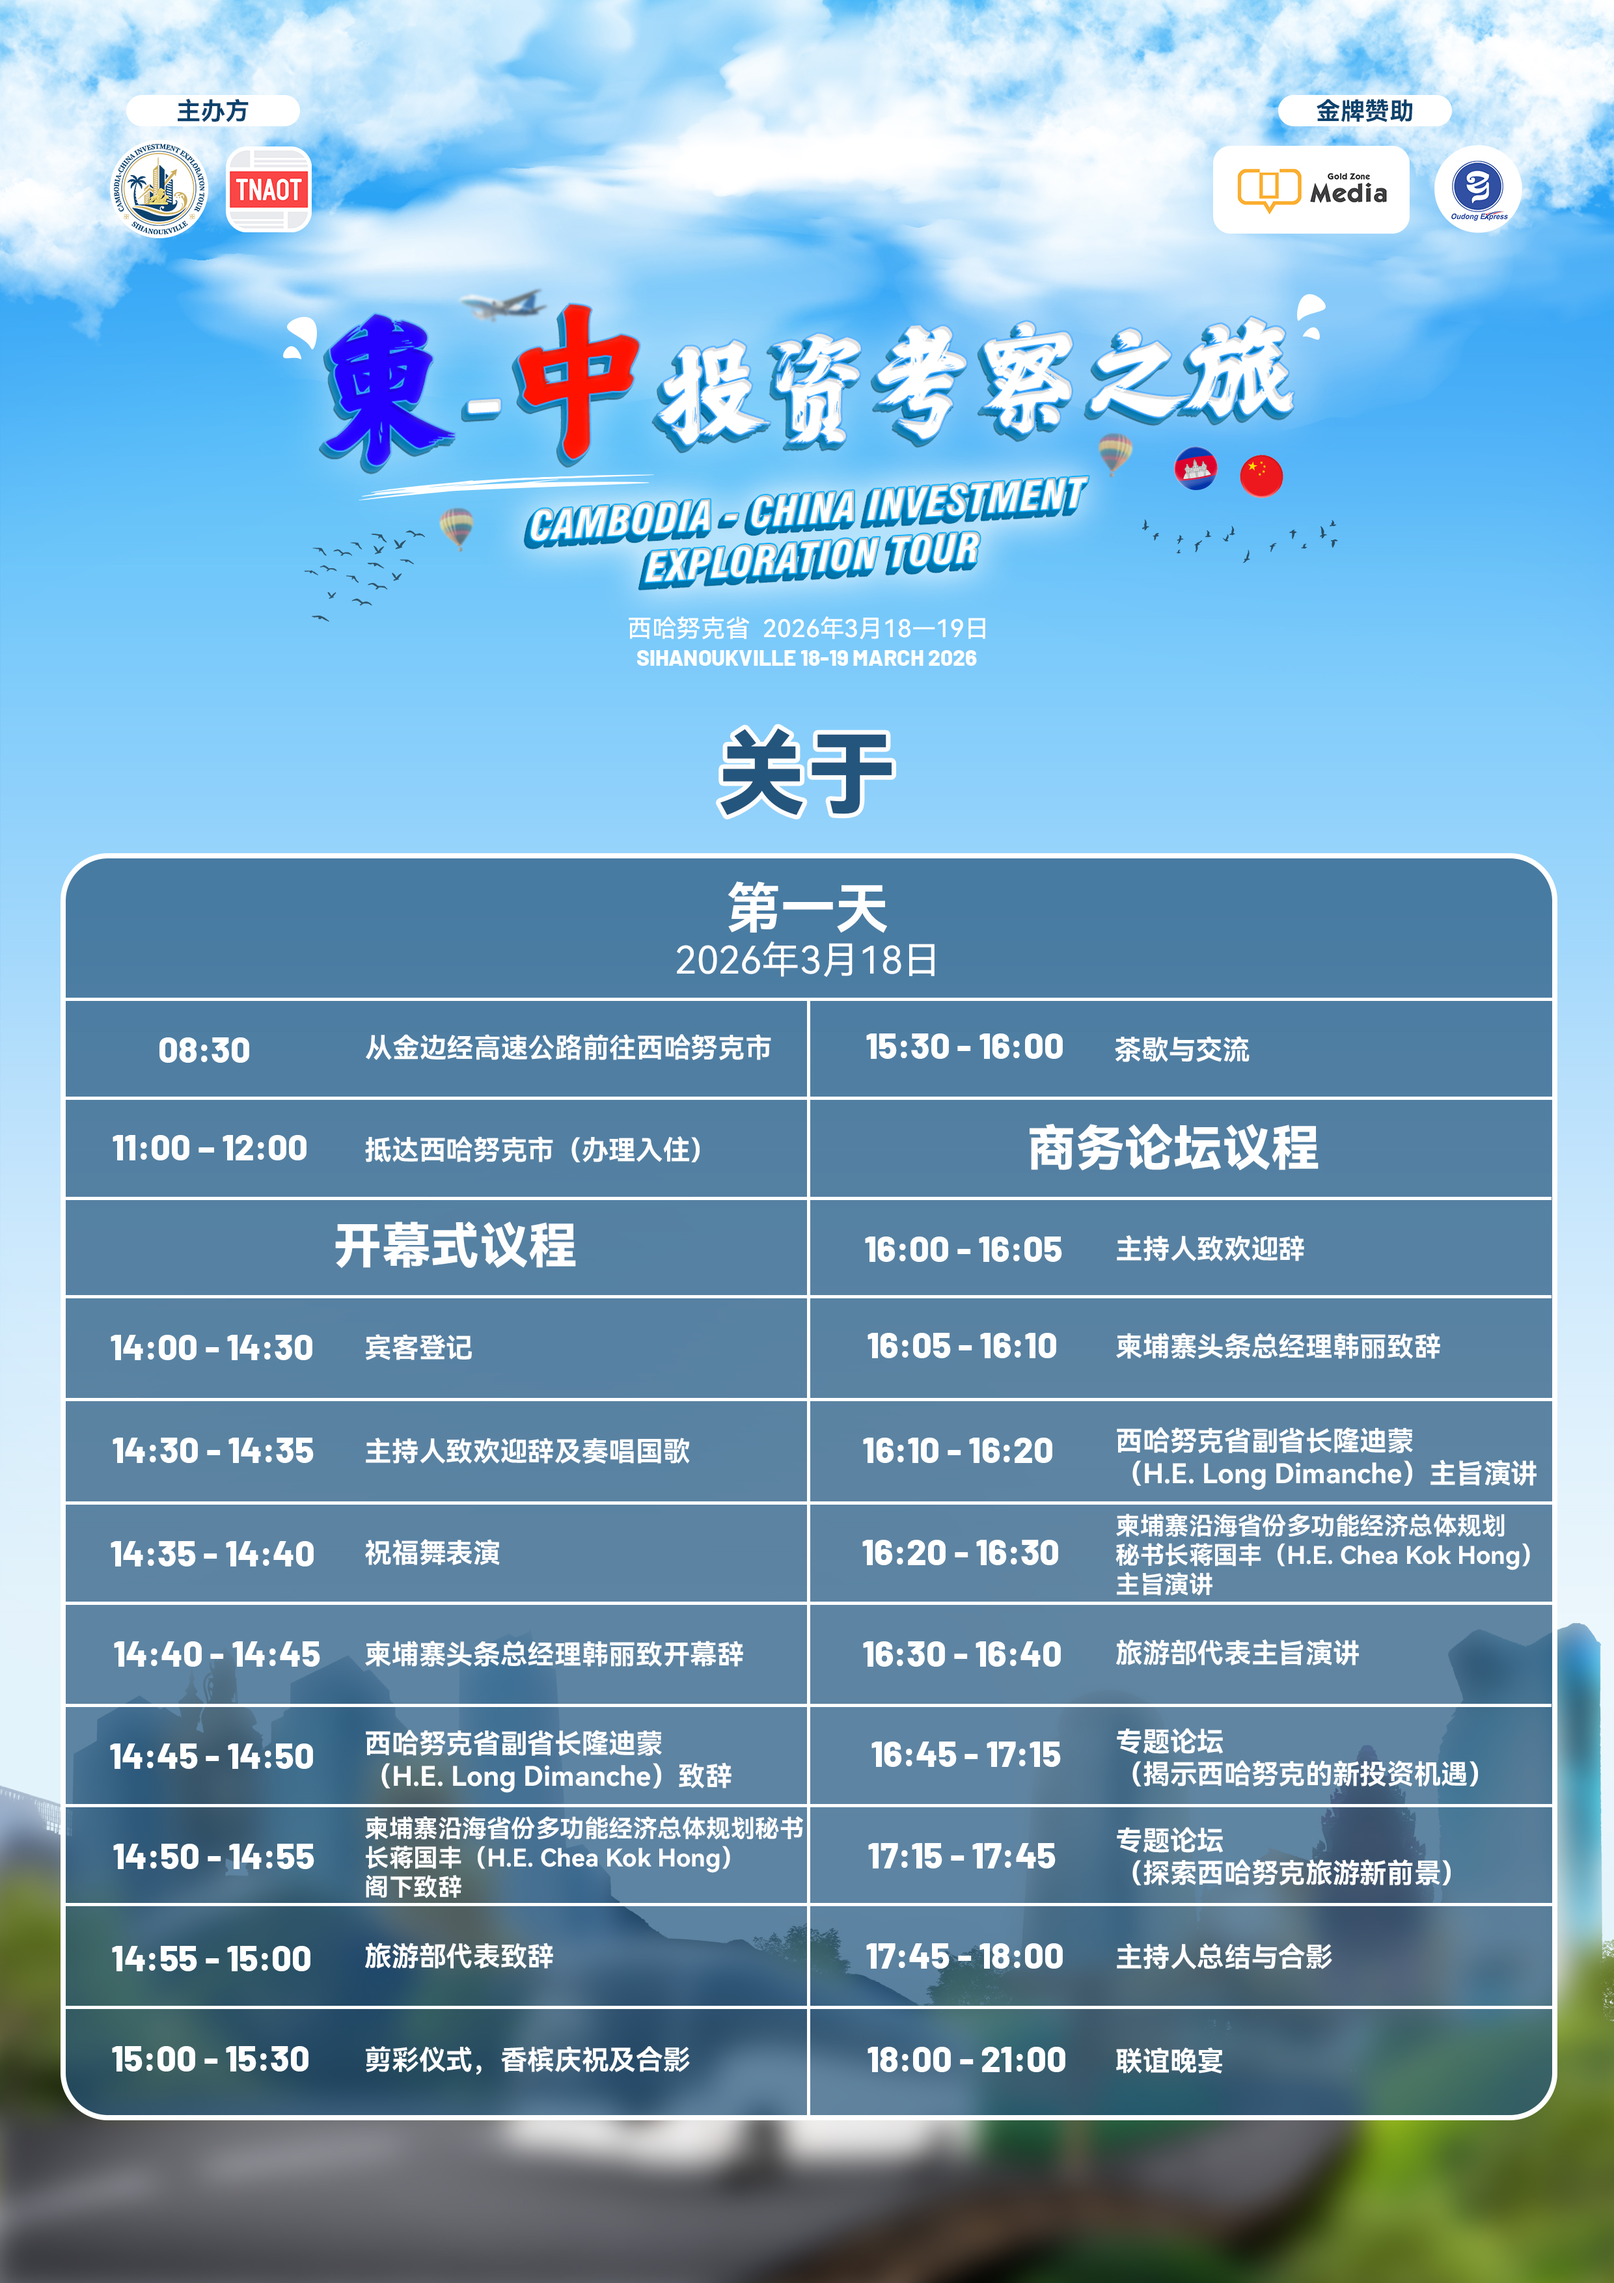
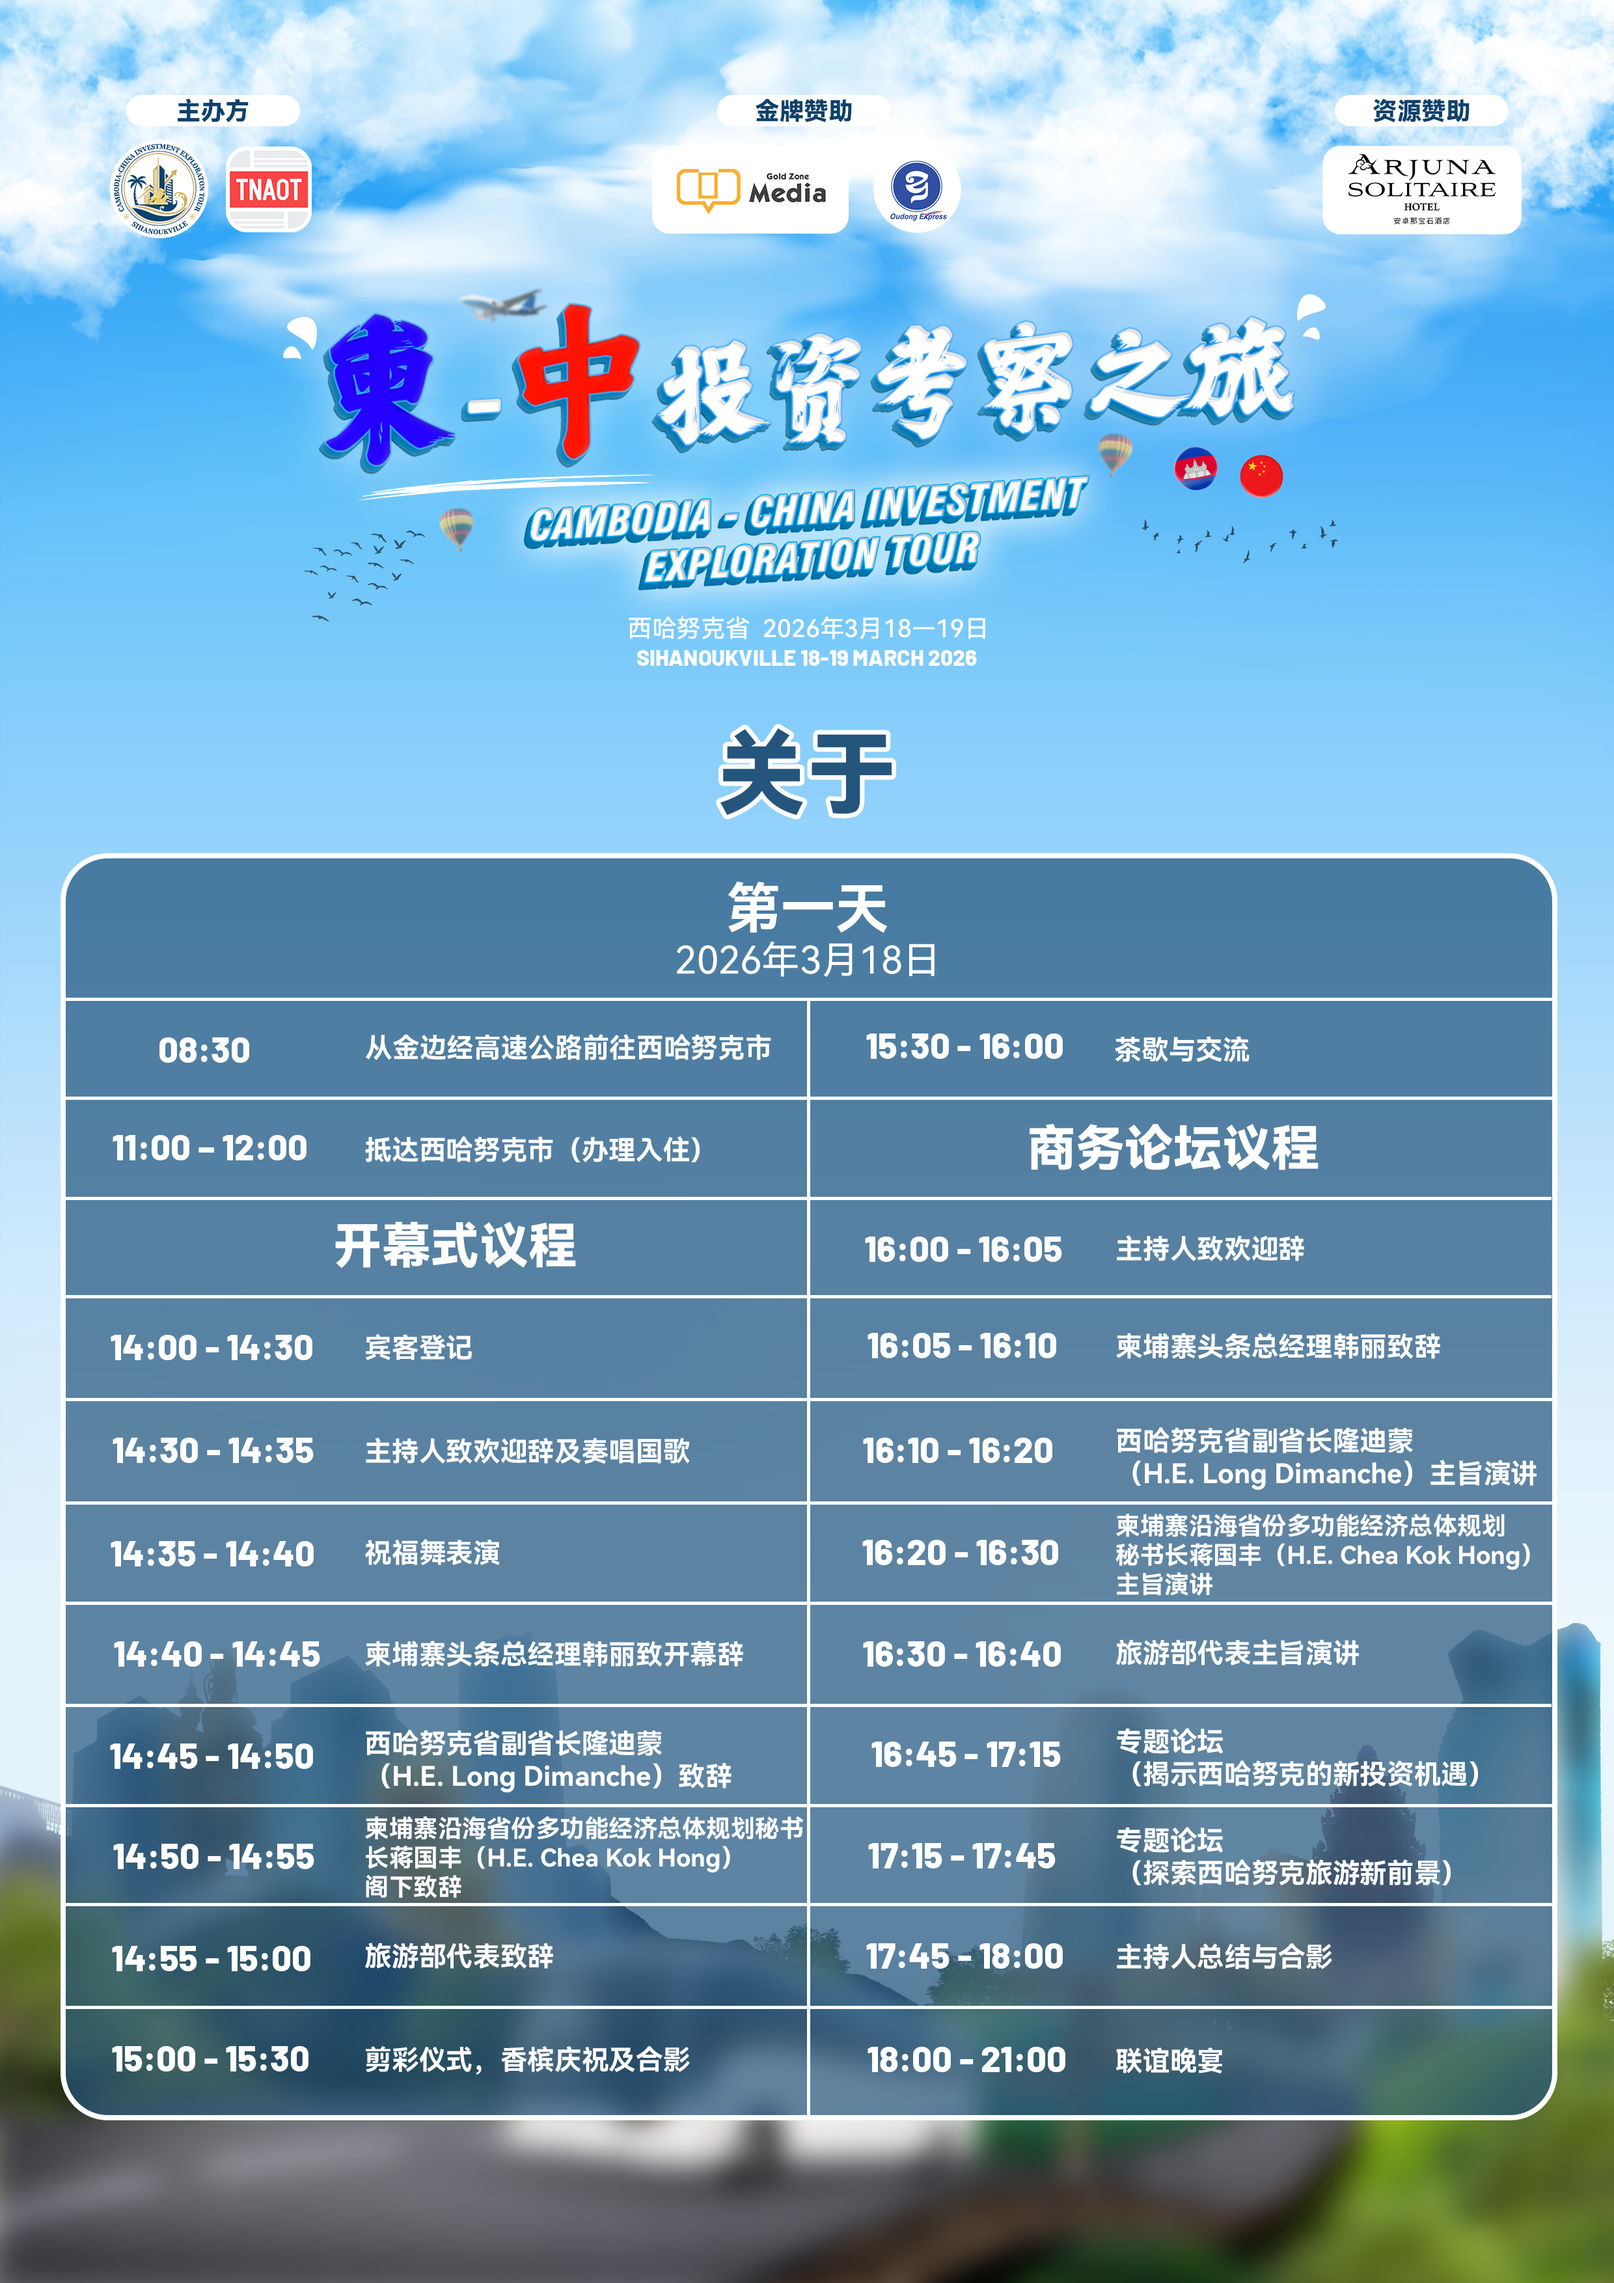
new

Changed region(s): [[0.7452, 0.0311, 0.9315, 0.1243], [0.4036, 0.0311, 0.5899, 0.1243]]

diff --git a/index-zh.html b/index-zh.html
@@ -333,31 +333,17 @@
                   alt="REDBRIDGE CO., LTD"
                 />
               </li>
-            </ul>
-            <div class="group-title">资源置换</div>
+            </ul> -->
+            <div class="group-title">资源赞助</div>
             <ul class="sponsors-partners-module">
               <li
               >
                 <img
-                  src="https://encrypted-tbn0.gstatic.com/images?q=tbn:ANd9GcSIByiuyf_3GXC_iCp0heRhnXr85zTQg_czAQ&s"
+                  src="./img/sponsors/ASH BLACK.png"
                   alt="DFDL"
                 />
               </li>
-              <li
-              >
-                <img
-                  src="https://encrypted-tbn0.gstatic.com/images?q=tbn:ANd9GcSIByiuyf_3GXC_iCp0heRhnXr85zTQg_czAQ&s"
-                  alt="Intercare Hospital"
-                />
-              </li>
-              <li
-              >
-                <img
-                  src="https://encrypted-tbn0.gstatic.com/images?q=tbn:ANd9GcSIByiuyf_3GXC_iCp0heRhnXr85zTQg_czAQ&s"
-                  alt="REDBRIDGE CO., LTD"
-                />
-              </li>
-            </ul> -->
+            </ul>
           </div>
 
       <section class="packages" id="pakages">

diff --git a/index.html b/index.html
@@ -389,30 +389,17 @@
                 />
               </li>
             </ul> -->
-            <!-- <div class="group-title">In Kind Sponsor</div>
+            <div class="group-title">In-Kind Sponsor</div>
             <ul class="sponsors-partners-module">
               <li
               >
                 <img
-                  src="https://encrypted-tbn0.gstatic.com/images?q=tbn:ANd9GcSIByiuyf_3GXC_iCp0heRhnXr85zTQg_czAQ&s"
+                  src="./img/sponsors/ASH BLACK.png"
                   alt="DFDL"
                 />
               </li>
-              <li
-              >
-                <img
-                  src="https://encrypted-tbn0.gstatic.com/images?q=tbn:ANd9GcSIByiuyf_3GXC_iCp0heRhnXr85zTQg_czAQ&s"
-                  alt="Intercare Hospital"
-                />
-              </li>
-              <li
-              >
-                <img
-                  src="https://encrypted-tbn0.gstatic.com/images?q=tbn:ANd9GcSIByiuyf_3GXC_iCp0heRhnXr85zTQg_czAQ&s"
-                  alt="REDBRIDGE CO., LTD"
-                />
-              </li>
-            </ul> -->
+            </ul>
+            
       </div>
     <section class="packages" id="pakages">
       <div class="inner">
